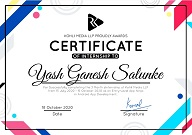
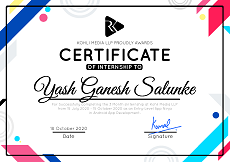
Updated Experience

diff --git a/index.html b/index.html
@@ -16,7 +16,7 @@
 	<!-- Global site tag (gtag.js) - Google Analytics -->
 <script async src="https://www.googletagmanager.com/gtag/js?id=UA-175564266-1"></script>
 <script>
-	
+
   window.dataLayer = window.dataLayer || [];
   function gtag(){dataLayer.push(arguments);}
   gtag('js', new Date());
@@ -228,8 +228,7 @@ Contact</a>
         </div>
     </div>
     <!-- End #experience -->
-	
-	<div id="workExperience" class="background-alt">
+    <div id="projects" class="background-alt">
         <h2 class="heading">Experience</h2>
         <div class="container">
             <div class="row">
@@ -239,20 +238,23 @@ Contact</a>
                     </div>
                     <!-- End .project-image -->
                     <div class="project-info">
-                        <h3>Internship
-                        <br><hr>
-                           4 months internship at Kohli Media LLP, Mohali India as an Entry Level App Ninja</h3>
+                        <h3>Internship</h3>
 
-                        <a href="https://github.com/yashsalunke/mapmitra" target="_blank">View Project</a>
+                        <h3 style="text-align: center;">4 months internship at Kohli Media LLP, Mohali India as an Entry Level App Ninja</h3>
+
+                        <a href="Certificate of Internship.pdf" target="_blank">View Certificate of Internship</a>
+                        &nbsp;&nbsp;&nbsp;&nbsp;&nbsp;&nbsp;&nbsp;&nbsp;&nbsp;&nbsp;&nbsp; &nbsp;&nbsp;&nbsp;&nbsp;&nbsp;&nbsp;&nbsp;&nbsp;&nbsp;&nbsp;&nbsp;
+                         <a href="LOR.pdf" target="_blank">View Letter of Recommendation</a>
                     </div>
                     <!-- End .project-info -->
                 </div>
-            </div>
-        </div>
-    </div>
-    <!-- End #projects -->
-	
-	
+                <!-- End .project -->
+
+
+
+
+
+
 
 
     <div id="projects" class="background-alt">
@@ -365,9 +367,9 @@ Contact</a>
                 </div>
             </div>
         </div>
-	    
-	     
-	    
+
+
+
     </footer>
     <!-- End footer -->
 
